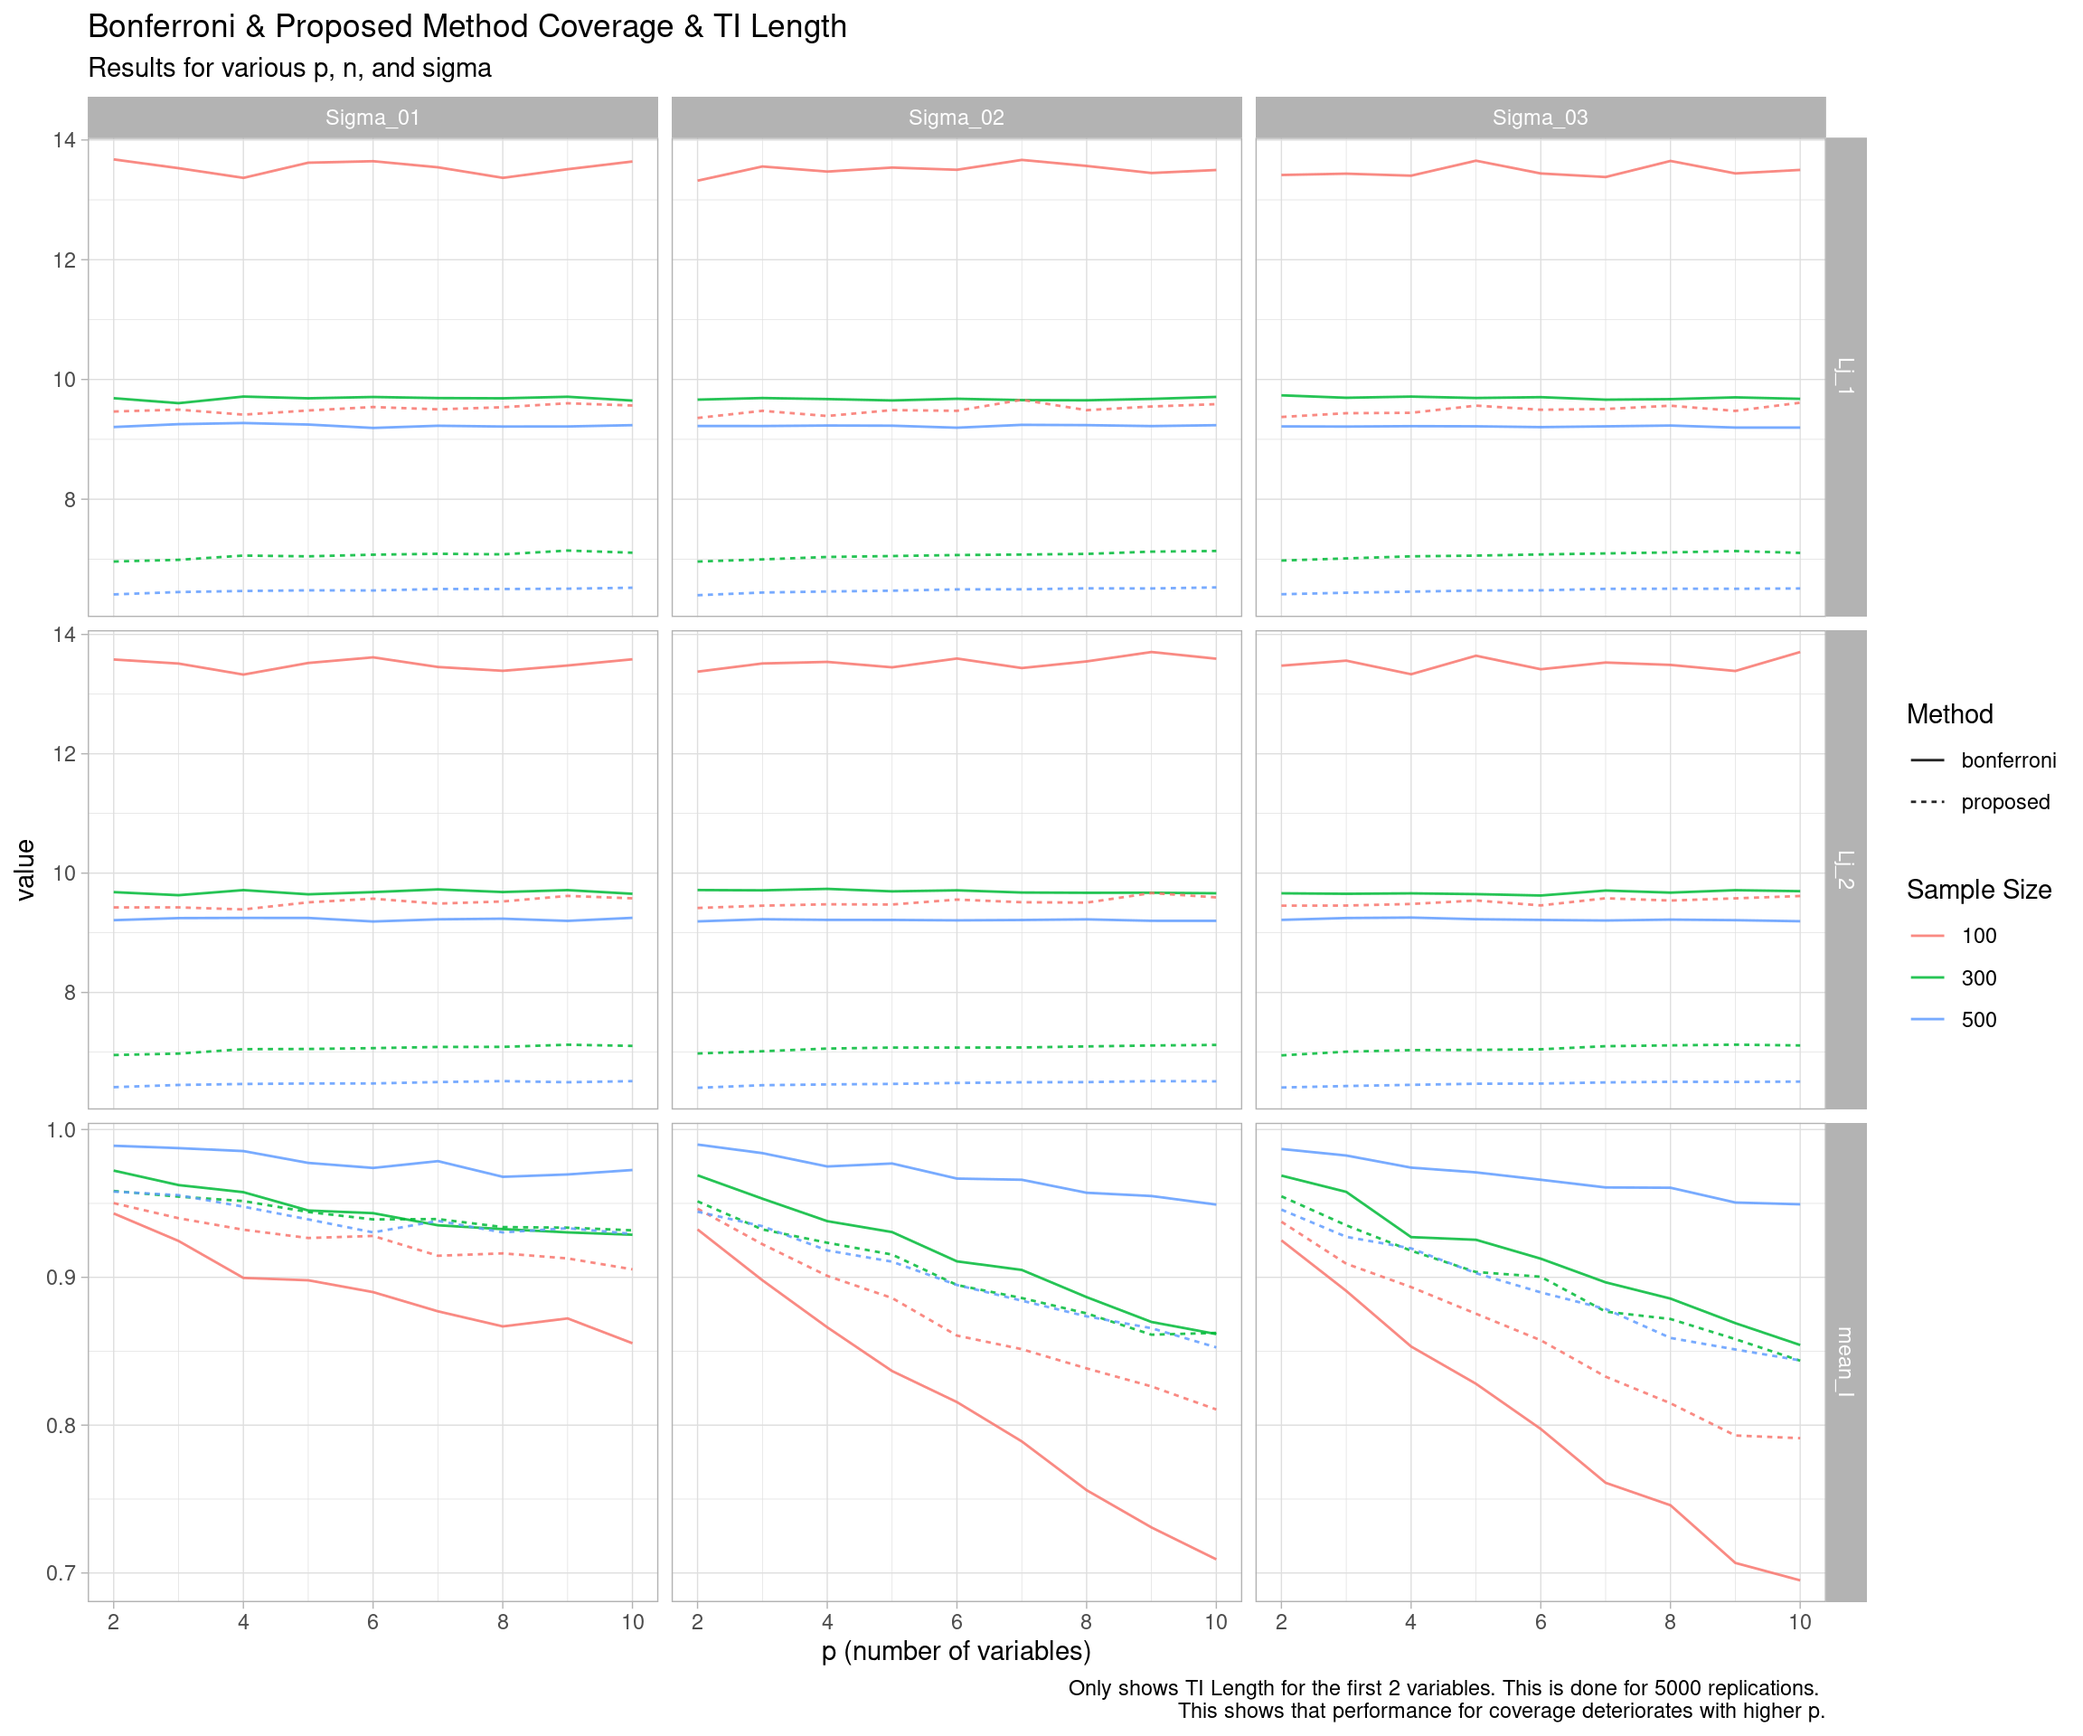
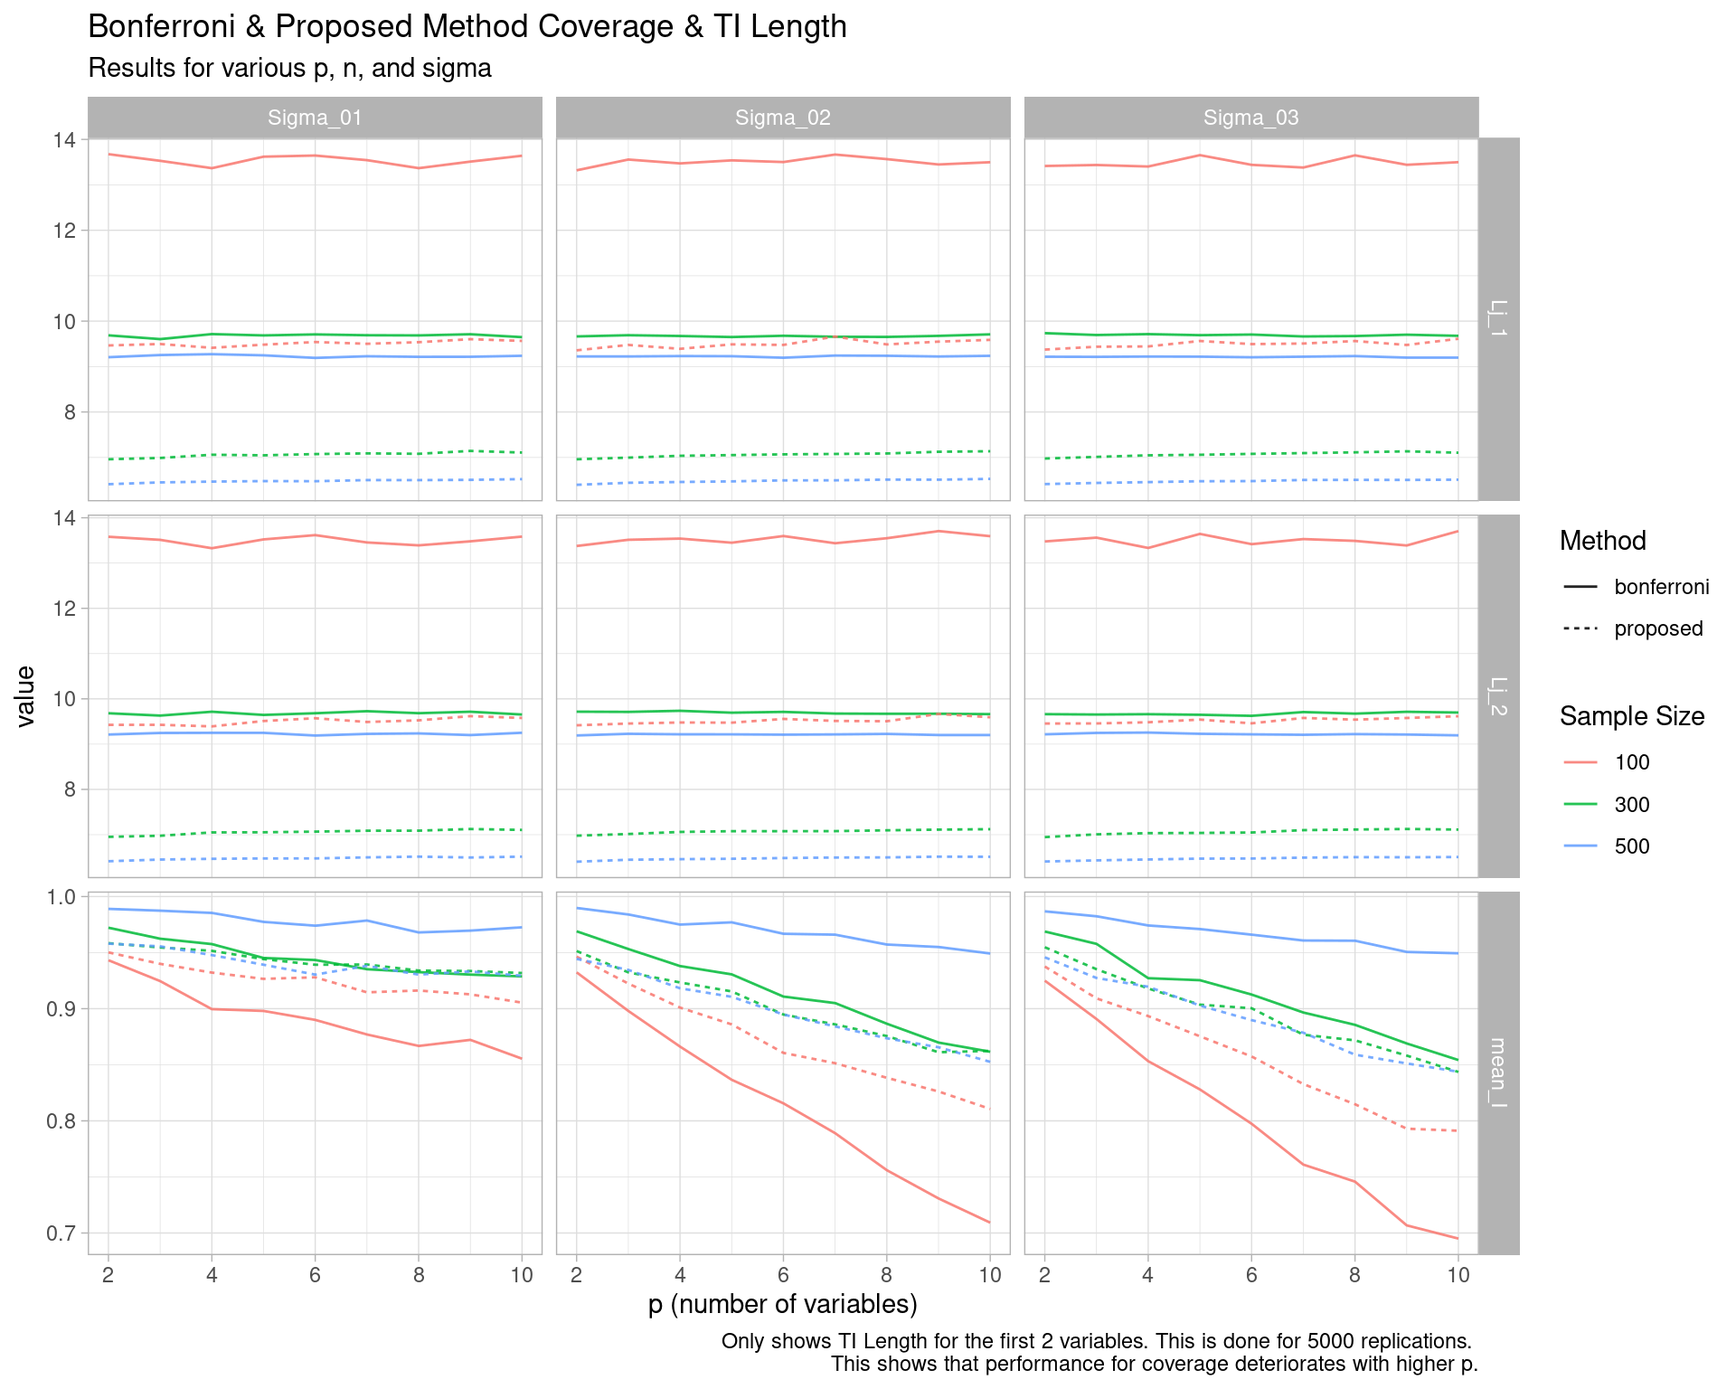
Deploy new Quarto site

diff --git a/docs/initial_notes.html b/docs/initial_notes.html
@@ -1029,19 +1029,19 @@ Attaching package: 'MASS'</code></pre>
 <pre><code>$Fhat_X1
 function (x) 
 mean(pnorm((x - datapoints)/bandwidth))
-&lt;environment: 0x558ab7a615f0&gt;
+&lt;environment: 0x55c81b3d7c00&gt;
 
 $Fhat_X2
 function (x) 
 mean(pnorm((x - datapoints)/bandwidth))
-&lt;bytecode: 0x558ab7178208&gt;
-&lt;environment: 0x558ab78e7ec8&gt;
+&lt;bytecode: 0x55c81ace1e48&gt;
+&lt;environment: 0x55c81b251e48&gt;
 
 $Fhat_X3
 function (x) 
 mean(pnorm((x - datapoints)/bandwidth))
-&lt;bytecode: 0x558ab7178208&gt;
-&lt;environment: 0x558ab716ba60&gt;</code></pre>
+&lt;bytecode: 0x55c81ace1e48&gt;
+&lt;environment: 0x55c81acdee78&gt;</code></pre>
 </div>
 </div>
 <ol start="3" type="1">
@@ -1604,7 +1604,7 @@ TI_length  Coverage
 <div class="cell-output-display">
 <div>
 <figure class="figure">
-<p><img src="initial_notes_files/figure-html/unnamed-chunk-38-1.png" class="img-fluid figure-img" width="1152"></p>
+<p><img src="initial_notes_files/figure-html/unnamed-chunk-38-1.png" class="img-fluid figure-img" width="960"></p>
 </figure>
 </div>
 </div>
